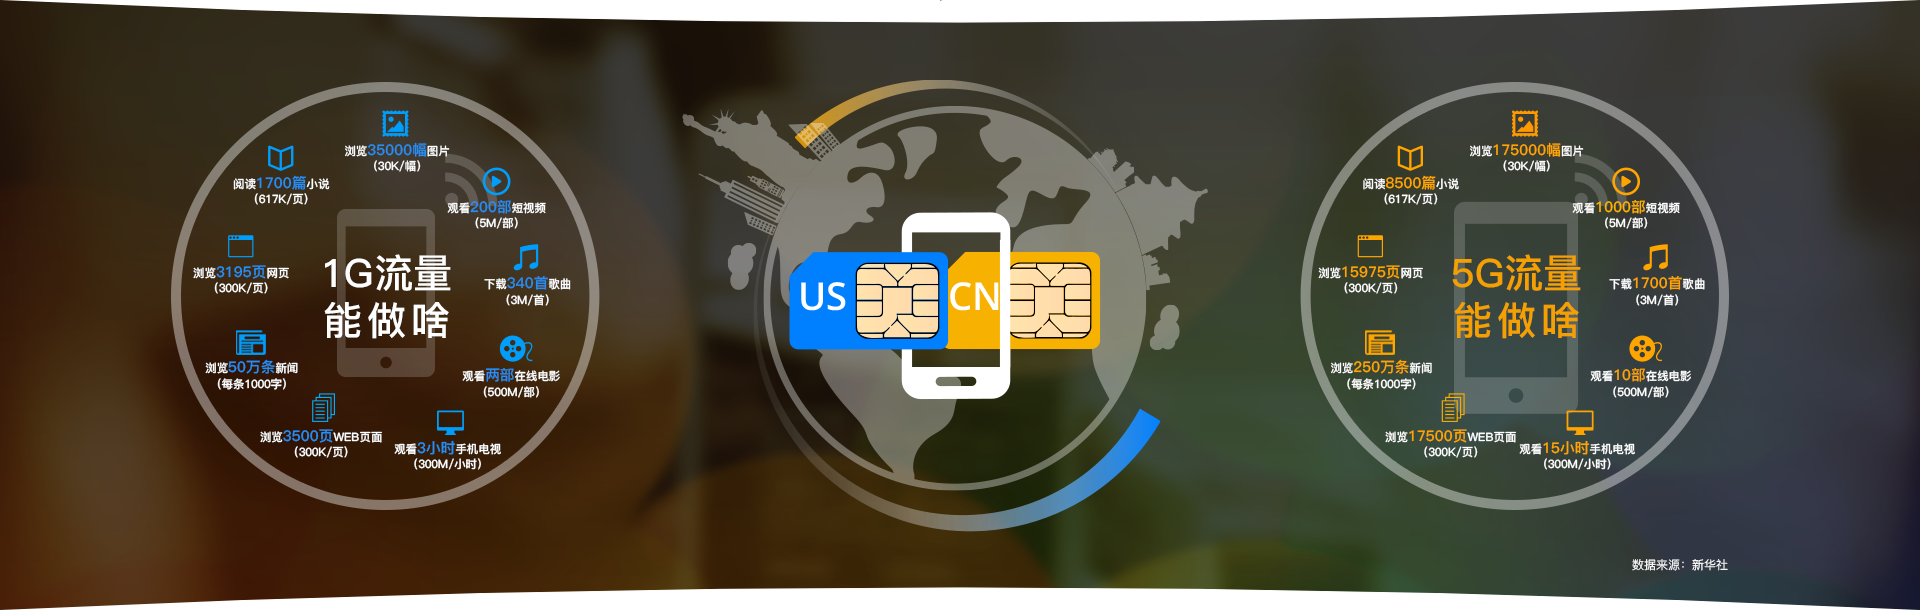
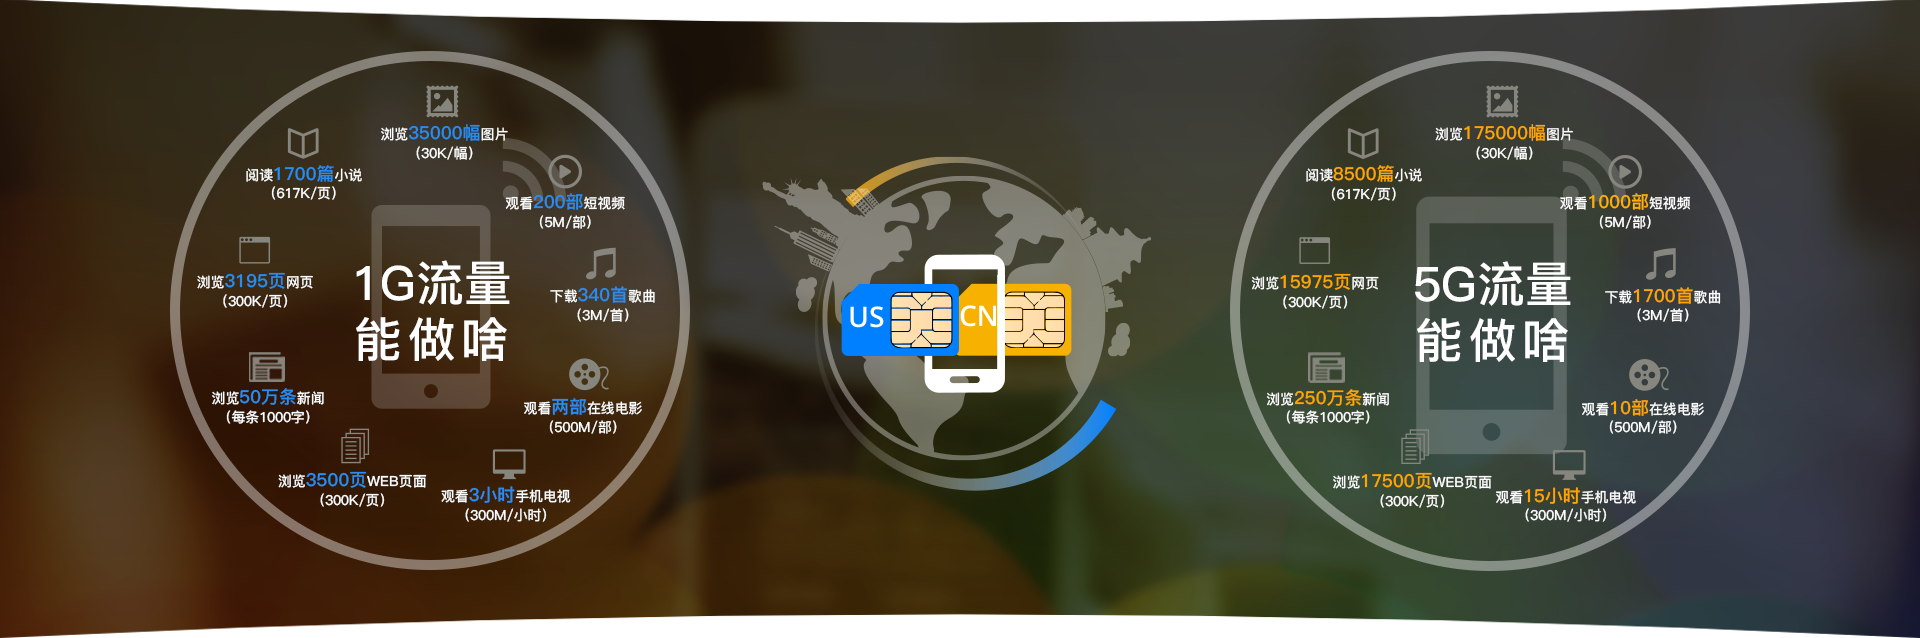
Amy bundles

diff --git a/us/shared/css/zh_bundles.css b/us/shared/css/zh_bundles.css
@@ -134,7 +134,8 @@ ul.bundlesCon li.double{width: 100%;}
 .bundlesText{height: 40.6vw; margin-bottom: 1%;}
 .bundlesTV .bundlesText{background: url(../images/bundles/bundlesTVpic.jpg) no-repeat; background-size: 100%; background-position-y: 6vw;}
 .bundlesBB .bundlesText{background: url(../images/bundles/bundlesBBpic.jpg) no-repeat; background-size: 100%; background-position-y: 7vw;}
-.bundlesMobile .bundlesText{background: url(../images/bundles/bundlesMobilepic.png) no-repeat; background-size: 100%; background-position-y: 7vw;}
+.bundlesMobile .bundlesText{height: 42vw; background: url(../images/bundles/bundlesMobilepic.png) no-repeat; background-size: 100%; background-position-y: 7.5vw;}
+.dataSources{color: #fff; position: absolute; right: 10%; margin-top: 30vw;}
 .iconsBox{float: left; width: 30%; text-align: left;}
 .iconsSpace{width: 5%;}
 .iconsTitle{padding: 0 5.2%; padding-top: 39%; margin-bottom: 4%;text-align: center;}
@@ -211,7 +212,7 @@ ul.bundlesCon li.double{width: 100%;}
 	ul.listNom{padding-left: 2%;}
 	.bdDisclaimer{margin-top: 4.5%; padding: 0 5%;}
 	.bundlesBox,.bundlesBoxOther{padding: 0 5%;} 
-	.bundlesBoxOther{margin-top: 6%;}
+	.bundlesBoxOther{margin-top: 6%;}	
     .titleBox{padding: 0 12%;}
 	.titleBox p{padding:8% 0% 2% 18%; margin-bottom:-19%; background-size: 16%; background-position-x: 5%;background-position-y: 20%;}
 	.titleBox3{padding: 0 35%;}
@@ -245,6 +246,7 @@ ul.bundlesCon li.double{width: 100%;}
 	.bundlesTV .bundlesText{background-size: 100%; background-position-y: 10vw;}
     .bundlesBB .bundlesText{background-size: 100%; background-position-y: 11vw;}
 	.bundlesMobile .bundlesText{height: 47vw; background-size: 100%; background-position-y: 11.7vw;}
+	.dataSources{right: 5%; margin-top: 29.2vw;}
 	.iconsCon{padding: 0 5%;}
 	.iconsList p{padding-left: 9%; background-size: 6%; background-position-y: .32vw;}
 	.iconsCon2 .iconsList p{padding-left: 6%; background-size: 4%; background-position-y: .26vw;}
@@ -314,7 +316,8 @@ ul.bundlesCon li.double{width: 100%;}
 	.bundlesTV .iconsCon{margin-top: -5%;}
     .bundlesTV .bundlesText{height: 67vw; background: url(../images/bundles/mBundlesTVpic.jpg) no-repeat; background-size: 100%; background-position-y: 22vw;}
     .bundlesBB .bundlesText{height: 72vw; background: url(../images/bundles/mBundlesBBpic.jpg) no-repeat; background-size: 100%; background-position-y: 24vw;}
-	.bundlesMobile .bundlesText{height: 125vw; background: url(../images/bundles/mBundlesMobilepic.png) no-repeat; background-size: 100%; background-position-y: 21vw;}
+	.bundlesMobile .bundlesText{height: 189vw; background: url(../images/bundles/mBundlesMobilepic.png) no-repeat; background-size: 100%; background-position-y: 24vw;}
+	.dataSources{right: 6%; margin-top: 155vw;}
 	
 	.iconsCon{padding: 0 10%;}
 	.iconsBox{float: none; width: 100%; padding-top: 11%;}

diff --git a/us/chs/index.html b/us/chs/index.html
@@ -303,7 +303,7 @@ a:hover{text-decoration:none;}
             <div class="mobileLeft">
                 <p class="sectionTitle pin title60 mTitle68 fwb">蜻蜓电话</p>
                 <p class="sectionText title30 mTitle38">海外华人市场<span class="sans">No.1</span>家庭电话品牌<br>
-                    <span class="sans">14</span>年历史承诺<span class="sans">A+</span>产品服务
+                    <span class="sans">14</span>年承诺<span class="sans">A+</span>产品服务
                 </p>
                 <div class="iconLeft title24 mTitle30">
                     <p class="s4iconText1">无限拨打全球<span class="sans">29</span>个<br class="showM">国家和地区</p>

diff --git a/us/chs/iTalkBB-Carrer.html b/us/chs/iTalkBB-Carrer.html
@@ -44,7 +44,7 @@
         .org{color: #ff7f00}
         .sg{border-right:none }
 		.lv2{width: 37%; }
-		.subNav{margin:1.5%;padding: 1%;}
+		.subNav{margin:1.5%;padding: 1% 1% 1% 3%;}
 		.lvb,.lvc,.lvd{display: none}
 		.lva{margin-left: -0.5%}
 		.lvb{margin-left: 7.5%}
@@ -59,7 +59,7 @@
 		.bk{color: black}
 		.wt{color: white}
 		.subNav:hover{background:#ff7f00;color: white }
-		.navContent{margin-left: 3%}
+		.navContent{margin-left: 4.5%}
 		.navContent a:hover{color:#ff7f00  }
         .mbg{display: none}
 		.mainMgnTop{background:url(../shared/images/carrer/careerBg.png) no-repeat scroll ;background-size:100%;padding-bottom: 1%;height: 30vw}

diff --git a/us/chs/bundles-mobile-phone.html b/us/chs/bundles-mobile-phone.html
@@ -545,6 +545,7 @@
 	   	     <div class="bundlesText">
 	   	     	<p class="titleMgnBtm title36 mTitle44 fwb">蜻蜓移动</p>
 	   	     	<p class="title30 mTitle38">一个手机计划，美国中国都能用</p>
+	   	     	<p class="dataSources text14 mText20">数据来源：新华社</p>
 	   	     </div>	
 	   	     <div class="iconsCon iconsCon2 mainMgn200 clearfix">
 	   	        <div class="iconsBox text18 mText26">

diff --git a/us/chs/bundles-mobile-tv-phone.html b/us/chs/bundles-mobile-tv-phone.html
@@ -695,6 +695,7 @@
 	   	     <div class="bundlesText">
 	   	     	<p class="titleMgnBtm title36 mTitle44 fwb">蜻蜓移动</p>
 	   	     	<p class="title30 mTitle38">一个手机计划，美国中国都能用</p>
+	   	     	<p class="dataSources text14 mText20">数据来源：新华社</p>
 	   	     </div>	
 	   	     <div class="iconsCon iconsCon2 mainMgn200 clearfix">
 	   	        <div class="iconsBox text18 mText26">
